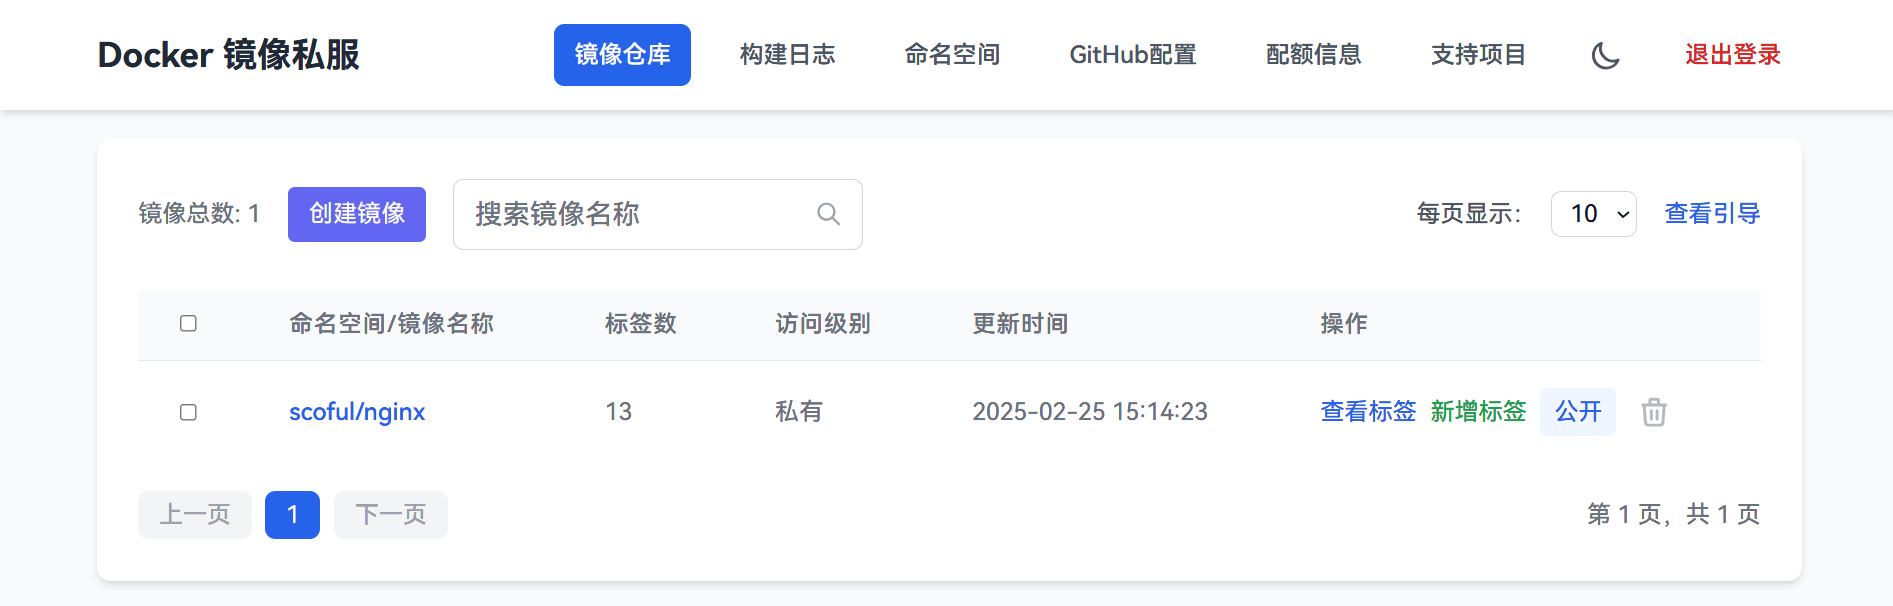
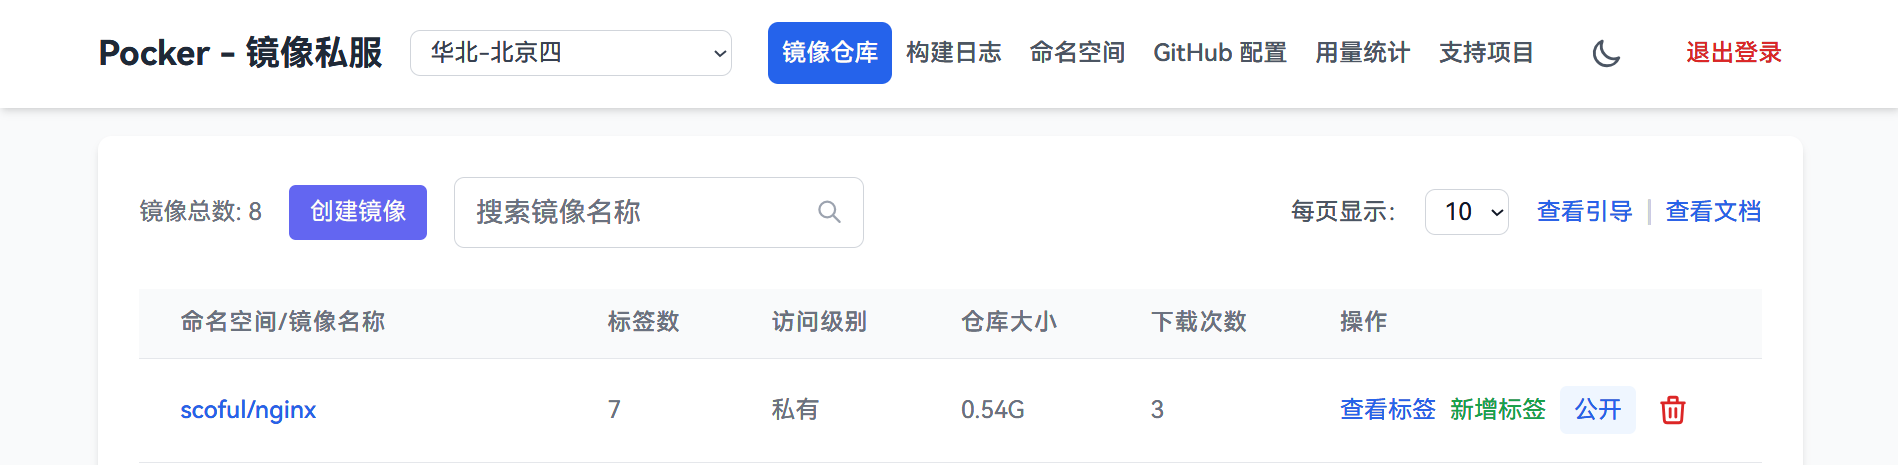
更新 README.md 文件，修改项目描述为支持华为云容器镜像服务，新增体验地址和环境变量获取说明，优化自动更新配置步骤，更新系统功能列表，替换腾讯云相关信息为华为云，提升文档清晰度和可用性。同时更新截图文件以反映最新界面。

diff --git a/README.md b/README.md
@@ -1,49 +1,67 @@
 # Pocker
+
 **_让每个人都有自己的 Docker 私服，Make Docker Great Again。_**
 
-一个基于 Next.js 开发的全栈 Docker 镜像仓库管理系统，专为将 Docker Hub 镜像高效转存至腾讯云容器镜像服务（TCR）个人版而设计。支持一键部署，彻底解决镜像拉取缓慢问题，保障数据安全，让您完全掌控自己的 Docker 环境，我的 Docker 我做主。
+一个基于 Next.js 开发的全栈 Docker 镜像仓库管理系统，专为将 Docker Hub
+镜像高效转存至华为云容器镜像服务（SWR）而设计。
+
+支持一键部署，彻底解决镜像拉取缓慢问题，保障数据安全，让您完全掌控自己的 Docker
+数据，我的 Docker 我做主。
+
+## 体验地址
+- https://pocker4u.vercel.app/
+- 访问密钥：pocker4u
 
 ## 快速开始
+
 ### 部署
 
-本项目支持通过 Vercel 一键部署。
+本项目支持通过 Vercel
+一键部署，部署过程中需要配置环境变量，请看下一步简化版本或[详细图文步骤在线文档](https://pocker-doc.vercel.app/)
 
-[![](https://vercel.com/button)](https://vercel.com/new/clone?repository-url=https%3A%2F%2Fgithub.com%2Fscoful%2Fpocker&env=ACCESS_KEY,Region,TENCENTCLOUD_SECRET_ID,TENCENTCLOUD_SECRET_KEY,GITHUB_TOKEN,TENCENTCLOUD_PASSWORD&envDescription=%E4%B8%8A%E9%9D%A2%E7%9A%84%E7%8E%AF%E5%A2%83%E5%8F%98%E9%87%8F%E8%8E%B7%E5%8F%96%E6%96%B9%E6%B3%95%E8%AF%B7%E7%9C%8B-%3E&envLink=https%3A%2F%2Fpocker-doc.vercel.app%2FquickStart%2FstepTwo&project-name=pocker&repository-name=pocker)
-
-### 配置自动更新
-- 路径：进入"GitHub 配置"菜单下的"配置自动更新"，填写您在 Vercel 上部署的项目名称（例如：pocker）。该项目名可在 Vercel 控制台查看，它对应着您 GitHub 账号下的一个私有仓库。
+[![](https://vercel.com/button)](https://vercel.com/new/clone?repository-url=https%3A%2F%2Fgithub.com%2Fscoful%2Fpocker&env=ACCESS_KEY,GITHUB_TOKEN,HUAWEICLOUD_AK,HUAWEICLOUD_SK,NEXT_PUBLIC_HUAWEICLOUD_USERNAME,HUAWEICLOUD_PASSWORD&envDescription=%E4%B8%8A%E9%9D%A2%E7%9A%84%E7%8E%AF%E5%A2%83%E5%8F%98%E9%87%8F%E8%8E%B7%E5%8F%96%E6%96%B9%E6%B3%95%E8%AF%B7%E7%9C%8B%E2%86%92&envLink=https%3A%2F%2Fpocker-doc.vercel.app%2FquickStart%2FstepTwo&project-name=pocker&repository-name=pocker)
 
 ### 获取环境变量
-
+**建议查看[获取环境变量在线文档](https://pocker-doc.vercel.app/quickStart/stepTwo)**
 - ACCESS_KEY，系统登录凭证，请设置一个安全的密钥值，用于系统身份验证和访问控制
-- Region，建议直接填：**ap-guangzhou**
-- TENCENTCLOUD_SECRET_ID，访问[腾讯云控制台](https://console.cloud.tencent.com/cam)创建并获取SecretId，**_注意：创建时只需授予 QcloudTCRFullAccess 权限即可_**
-- TENCENTCLOUD_SECRET_KEY，访问[腾讯云控制台](https://console.cloud.tencent.com/cam)获取SecretKey，**_注意：与SecretId配套使用，同样只需授予 QcloudTCRFullAccess 权限_**
-- TENCENTCLOUD_PASSWORD，访问[腾讯云容器镜像服务](https://console.cloud.tencent.com/tcr)控制台，填写您在初始化容器镜像服务时设置的登录密码。
 - GITHUB_TOKEN，访问[GitHub令牌设置](https://github.com/settings/tokens/new)创建一个新的访问令牌，有效期建议设置为永久，**_注意：权限仅需勾选 workflow 即可_**
+- HUAWEICLOUD_AK，访问[华为云控制台](https://console.huaweicloud.com/iam/)获取ak，创建一个新的“用户组”并只授予**SWR FullAccess**权限，然后在这个用户组下创建一个新的“用户”，**_注意：创建时只需授予 SWR FullAccess 权限即可_**
+- HUAWEICLOUD_SK，访问[华为云控制台](https://console.huaweicloud.com/iam/)获取sk，**_注意：与HUAWEICLOUD_AK配套使用，同样只需授予 SWR FullAccess 权限_**
+- NEXT_PUBLIC_HUAWEICLOUD_USERNAME，访问[华为云容器镜像服务](https://console.huaweicloud.com/swr)获取**长期有效登录指令**，通过上一步获取的AK和SK获取，只需要-u的值
+- HUAWEICLOUD_PASSWORD，访问[华为云容器镜像服务](https://console.huaweicloud.com/swr)获取**长期有效登录指令**，通过上一步获取的AK和SK获取，只需要-p的值
 
-### 设置Vercel环境变量
-1. 点击右边一键部署按钮 [![](https://vercel.com/button)](https://vercel.com/new/clone?repository-url=https%3A%2F%2Fgithub.com%2Fscoful%2Fpocker&env=ACCESS_KEY,Region,TENCENTCLOUD_SECRET_ID,TENCENTCLOUD_SECRET_KEY,GITHUB_TOKEN,TENCENTCLOUD_PASSWORD&envDescription=%E4%B8%8A%E9%9D%A2%E7%9A%84%E7%8E%AF%E5%A2%83%E5%8F%98%E9%87%8F%E8%8E%B7%E5%8F%96%E6%96%B9%E6%B3%95%E8%AF%B7%E7%9C%8B-%3E&envLink=https%3A%2F%2Fpocker-doc.vercel.app%2FquickStart%2FstepTwo&project-name=pocker&repository-name=pocker)完成初始部署
-2. 在Vercel项目控制面板中，进入 Settings → Environment Variables 页面
-3. 将上述获取的所有环境变量依次添加到配置中
-4. 添加完成后，点击 Redeploy 重新部署项目
-5. 部署完成后即可开始使用系统，尽情体验吧！
+### 配置自动更新
+
+1. 打开你在 Vercel 上部署后获得的项目地址，进入"GitHub 配置"菜单下的"配置自动更新"，填写您在 Vercel 上部署的项目名称（例如：pocker）。该项目名可在
+   Vercel 控制台查看，它对应着您 GitHub 账号下的一个私有仓库。
+2. 打开 Vercel 项目控制面板，进入 Settings → Environment → 点击 Production，跳转后把 Branch Tracking 的 master 改成 main
+   ，最后保存
+3. 完成以上配置后，系统将自动同步最新功能和更新
+
+### 修改 Vercel 环境变量（可选）
+**每次修改后要重新部署才能生效**
+1. 在 Vercel 项目控制面板中，进入 Settings → Environment Variables 页面
+2. 可以看到上述配置的所有环境变量
+3. 修改后，点击 Redeploy 重新部署项目
+4. 部署完成后即可开始使用系统，尽情体验吧！
 
 ## 系统截图
+
 <div align="center">
   <img src=".github/screenShots/1.png" alt="1" width="1500" />
   <img src=".github/screenShots/2.png" alt="2" width="1500" />
 </div>
 
 ## 详细文档
+
 - [在线文档](https://pocker-doc.vercel.app/)
 
 ## 主要功能
 
 - 🔐 密钥验证登录
+- 🌍 支持多区域切换，轻松获取全球各地的容器镜像资源，目前支持全球23个地方节点
 - 📦 镜像仓库管理
     - 创建/删除镜像仓库
-    - 批量删除仓库
     - 搜索镜像
     - 公开/私有仓库切换
 - 🏷 标签管理
@@ -51,13 +69,12 @@
     - 创建新标签（基于已有镜像）
     - 删除标签
     - 搜索标签
-    - 批量删除标签
     - 复制标签pull地址
 - 👥 命名空间管理
     - 创建/删除命名空间
     - 查看命名空间列表
-- 📊 配额信息查看
-  - 查看命名空间、镜像仓库、标签的已用数和总可用数对比
+- 📊 用量统计查看
+    - 查看命名空间数量、镜像仓库数量、标签数量、存储空间大小、下行流量大小
 - ⚙ GitHub Actions 自动化
     - 自动创建/配置用于中转的 GitHub 仓库
     - 自动配置用于中转的工作流
@@ -72,12 +89,12 @@
 - Tailwind CSS
 - Driver.js (新手引导)
 - GitHub API
-- 腾讯云 API
+- 华为云 SDK
 
 ## 环境要求
 
 - Node.js 16+
-- 腾讯云账号密钥
+- 华为云账号密钥
 - GitHub 账号密钥
 
 ## 开发
@@ -95,10 +112,13 @@ npm run build
 # 生产环境运行
 npm start
 ```
+
 ## TODO
+
 - ~~开发阿里云版本(已放弃,因阿里云免费版不支持SDK调用)~~
-- 开发华为云版
-- 其他云
+- ~~开发腾讯云版本（已完成，但发现速度受限，已放弃）~~
+- 开发华为云版（已完成）
+
 
 ## 许可证
 
@@ -114,6 +134,7 @@ MIT
 </div>
 
 ## Star 趋势
+
 [![Stargazers over time](https://starchart.cc/scoful/pocker.svg?variant=adaptive)](https://starchart.cc/scoful/pocker)
 
 You are my ![Visitor Count](https://profile-counter.glitch.me/scoful/count.svg)th visitor
